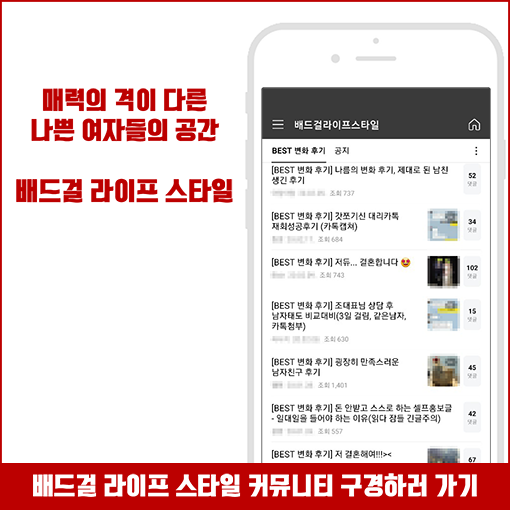
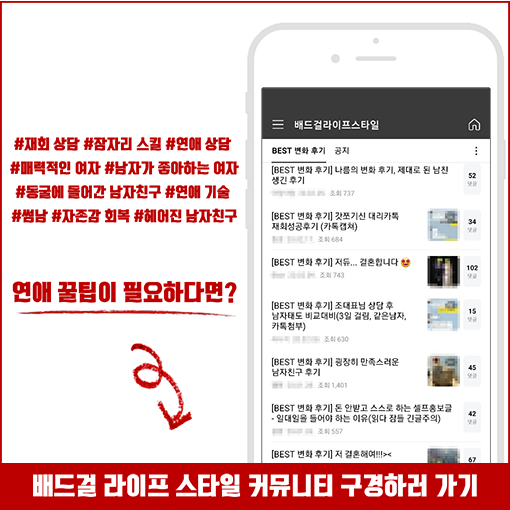
배너 및 결과표 수정

diff --git a/components/Pagination/Circle.vue b/components/Pagination/Circle.vue
@@ -62,11 +62,6 @@ export default {
       &.red {
         z-index: 20;
         background: var(--color-red-light);
-        // box-shadow: 0 0 0 1px rgba(255, 0, 0, .2),
-        //     0 0 1px var(--color-red-light),
-        //     0 0 2px var(--color-red-light),
-        //     0 0 4px var(--color-red-light),
-        //     0 0 8px var(--color-red-light);
       }
     }
   }

diff --git a/pages/result/_count.vue b/pages/result/_count.vue
@@ -64,8 +64,12 @@ export default {
 .result {
   line-height: 2rem;
   text-align: center;
-  font-size: 0.8rem;
+  font-size: 16px;
   font-weight: bold;
+
+  @media screen and (max-width: 355px) {
+    font-size: 14px;
+  }
 }
 
 .result-probability {

diff --git a/pages/index.vue b/pages/index.vue
@@ -66,7 +66,7 @@ main {
   margin: 0 auto;
   margin-top: 40px;
 
-  @media screen and (max-width: 340px) {
+  @media screen and (max-width: 355px) {
     font-size: 16px;
   }
 }
